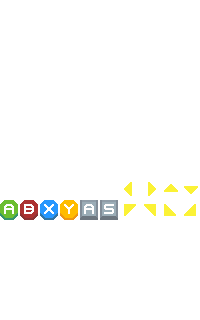
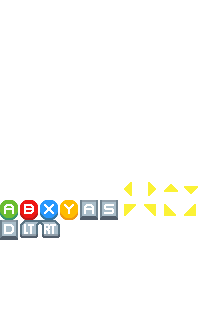
key binding for rolling

Changed region(s): [[0.0, 0.625, 0.3, 0.75], [0.39, 0.6562, 0.6, 0.6875]]

diff --git a/Leore/Main/Player.cs b/Leore/Main/Player.cs
@@ -173,6 +173,8 @@ namespace Leore.Main
 
         bool k_LPressed, k_RPressed;
 
+        bool k_rollPressed;
+
         float gamePadLeftXFactor;
         float gamePadLeftYFactor;
 
@@ -245,6 +247,7 @@ namespace Leore.Main
         private float rollAngle;
         private int doubleTapTimer;
         private int rollTimeout;
+        //private int rollStateTimer;
         private float maxVelRoll = 3f;
         private float noRollGravityTimer;
         private readonly float maxNoRollGravityTimer = 20;
@@ -494,6 +497,8 @@ namespace Leore.Main
             k_LPressed = ctrl && InputMapping.KeyPressed(InputMapping.L, InputManager.State.Pressed);
             k_RPressed = ctrl && InputMapping.KeyPressed(InputMapping.R, InputManager.State.Pressed);
 
+            k_rollPressed = ctrl && InputMapping.KeyPressed(InputMapping.Roll, InputManager.State.Pressed);
+            
             gamePadLeftXFactor = Math.Max(Math.Abs(InputMapping.GamePadXFactor), .3f);
             gamePadLeftYFactor = Math.Max(Math.Abs(InputMapping.GamePadYFactor), .3f);
 
@@ -1435,6 +1440,8 @@ namespace Leore.Main
                 rollAngle = (rollAngle + (5 * XVel)) % 360;
                 Angle = (float)((rollAngle / 360) * (2 * Math.PI));
 
+                rollTimeout = Math.Max(rollTimeout - 1, 0);
+
                 // escape-the-state
                 if (!k_leftHolding && !k_rightHolding)
                 {
@@ -1443,7 +1450,7 @@ namespace Leore.Main
                         XVel = Math.Sign(XVel) * Math.Max(Math.Abs(XVel) - .03f, 0);
                         if (Math.Abs(XVel) < .05f)
                         {
-                            rollTimeout = Math.Max(rollTimeout - 1, 0);
+                            //rollTimeout = Math.Max(rollTimeout - 1, 0);
                             if (rollTimeout == 0)
                             {
                                 State = PlayerState.IDLE;
@@ -1451,10 +1458,10 @@ namespace Leore.Main
                         }
                     }
                 }
-                else
-                {
-                    rollTimeout = 5;
-                }
+                //else
+                //{
+                //    rollTimeout = 5;
+                //}
             
                 if (Math.Abs(XVel) > .5f && !onWall)
                 {
@@ -1647,24 +1654,25 @@ namespace Leore.Main
 
                     if (!k_attackHolding)
                     {
-                        if (k_downPressed)
+                        if (k_rollPressed)
                         {
-                            if ((Direction == Direction.LEFT && k_leftHolding)
-                                || (Direction == Direction.RIGHT && k_rightHolding))
+                            //if ((Direction == Direction.LEFT && k_leftHolding)
+                            //    || (Direction == Direction.RIGHT && k_rightHolding))
                             {
                                 enableRollState = true;
+                                rollTimeout = 60;
                             }
                         }
                         else
                         {
-                            if (k_downHolding)
-                            {
-                                if ((Direction == Direction.LEFT && k_leftPressed)
-                                || (Direction == Direction.RIGHT && k_rightPressed))
-                                {
-                                    enableRollState = true;
-                                }
-                            }
+                            //if (k_rollPressed)
+                            //{
+                            //    if ((Direction == Direction.LEFT && k_leftPressed)
+                            //    || (Direction == Direction.RIGHT && k_rightPressed))
+                            //    {
+                            //        enableRollState = true;
+                            //    }
+                            //}
                         }
                     }
 

diff --git a/Leore/Main/InputMapping.cs b/Leore/Main/InputMapping.cs
@@ -18,6 +18,9 @@ namespace Leore.Main
             if (input == null) return false;
             foreach (var k in keys) {
 
+                if (k == null)
+                    continue;
+
                 if (input.PreferGamePad && input.GamePadEnabled && k.button != null || k.direction != null)
                 {
                     if (k.button == null)
@@ -32,17 +35,17 @@ namespace Leore.Main
                     }
                 }
 
-                if (input.IsKeyPressed(k.key.Value, state))
+                if (k.key != null && input.IsKeyPressed(k.key.Value, state))
                 {
                     return true;
                 }
-                                
-            }            
+
+            }
             return false;
         }
 
         public static float GamePadXFactor => input.LeftStick().X;
-        public static float GamePadYFactor =>  input.LeftStick().Y;
+        public static float GamePadYFactor => input.LeftStick().Y;
 
         public static Input Left { get; set; } = new Input { key = Keys.Left, direction = (InputManager.Direction.LEFT, InputManager.Stick.LeftStick) };
         public static Input Right { get; set; } = new Input { key = Keys.Right, direction = (InputManager.Direction.RIGHT, InputManager.Stick.LeftStick) };
@@ -51,8 +54,13 @@ namespace Leore.Main
 
         public static Input Jump { get; set; } = new Input { key = Keys.A, button = Buttons.A };
         public static Input Attack { get; set; } = new Input { key = Keys.S, button = Buttons.X };
+
         public static Input L { get; set; } = new Input { key = Keys.Q, button = Buttons.LeftShoulder };
         public static Input R { get; set; } = new Input { key = Keys.E, button = Buttons.RightShoulder };
+        //public static Input LT { get; set; } = new Input { key = Keys.D, button = Buttons.LeftTrigger };
+        //public static Input RT { get; set; } = new Input { key = Keys.D, button = Buttons.RightTrigger };
+
+        public static Input Roll { get; set; } = new Input { key = Keys.D, button = Buttons.B };
 
         public static Input Enter { get; set; } = new Input { key = Keys.Enter, button = Buttons.Start };
         public static Input ResetLevel { get; set; } = new Input { key = Keys.R };

diff --git a/Leore/Main/MessageBox.cs b/Leore/Main/MessageBox.cs
@@ -138,6 +138,10 @@ namespace Leore.Main
         /// #ld ... left-down
         /// #ru ... right-up
         /// #rd ... right-down
+        ///
+        /// #D ... D key
+        /// #lt ... left-trigger
+        /// #rt ... right-trigger
         /// 
         /// 
         /// </summary>
@@ -169,6 +173,10 @@ namespace Leore.Main
             text = text.Replace("#ru", ((char)139).ToString());
             text = text.Replace("#ld", ((char)140).ToString());
             text = text.Replace("#rd", ((char)141).ToString());
+
+            text = text.Replace("#D", ((char)142).ToString());
+            text = text.Replace("#lt", ((char)143).ToString());
+            text = text.Replace("#rt", ((char)144).ToString());
 
             text = text.Replace("#l", ((char)128).ToString());
             text = text.Replace("#r", ((char)129).ToString());

diff --git a/Leore/Main/MainGame.cs b/Leore/Main/MainGame.cs
@@ -295,6 +295,7 @@ namespace Leore.Main
                             GameManager.Current.AddSpell(SpellType.CRIMSON_ARC);
 
                             GameManager.Current.AddSpell(SpellType.FIRE);
+                            GameManager.Current.AddSpell(SpellType.ICE);
 
                             //GameManager.Current.RemoveSpell(SpellType.NONE);
 

diff --git a/SPG/Global/Input.cs b/SPG/Global/Input.cs
@@ -7,7 +7,7 @@ using System;
 
 namespace SPG
 {
-    public struct Input
+    public class Input
     {
         public (InputManager.Direction, InputManager.Stick)? direction;        
         public Keys? key;
